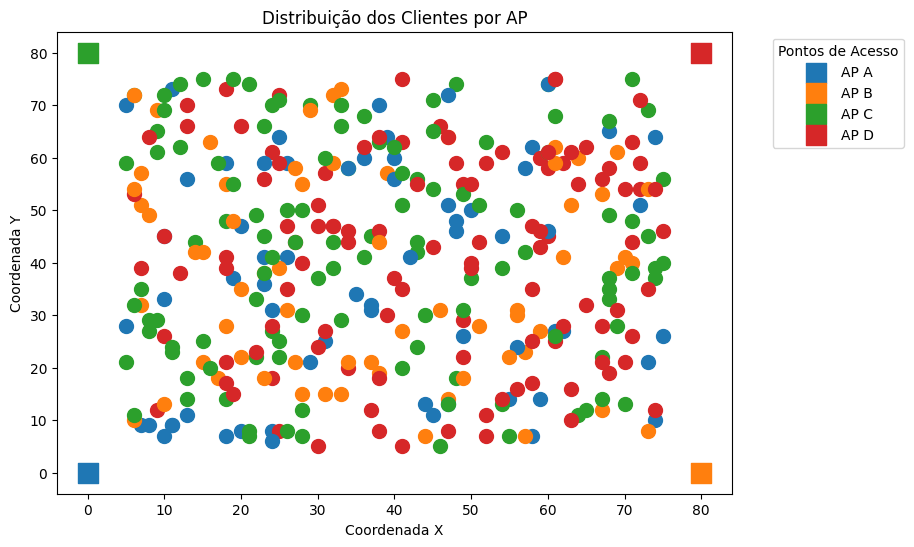
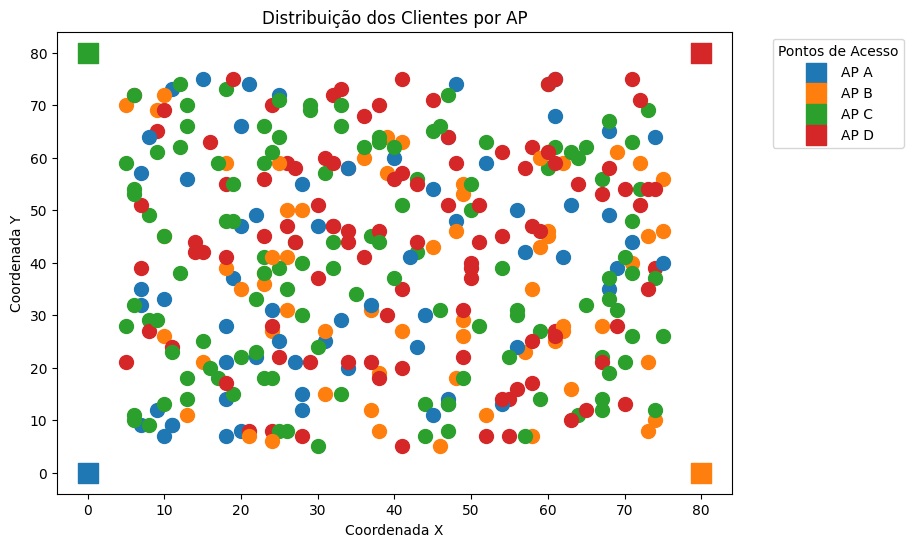
feat: add graficos

diff --git a/inteligencia_artificial/2_trabalho/main.py b/inteligencia_artificial/2_trabalho/main.py
@@ -16,7 +16,8 @@ def algoritmo_genetico(aps, clientes, geracoes=1000, taxa_mutacao_gene=0.05, tax
         indice_melhor_fitness_atual = max(range(len(fitness)), key=lambda i: fitness[i])
         melhor_individuo_atual = populacao[indice_melhor_fitness_atual]
 
-        #gerar_grafico(aps, clientes, melhor_individuo_atual, 'melhordageracao_' + str(geracao))
+        if(geracao == 0 or geracao % 50 == 0): 
+            gerar_grafico(aps, clientes, melhor_individuo_atual, 'melhordageracao_' + str(geracao))
         print(f"Geração {geracao + 1}: \n Distancia media: {calcular_distancia_media(melhor_individuo_atual, aps, clientes)}")
         
         # Garantir que o melhor indivíduo esteja na próxima geração
